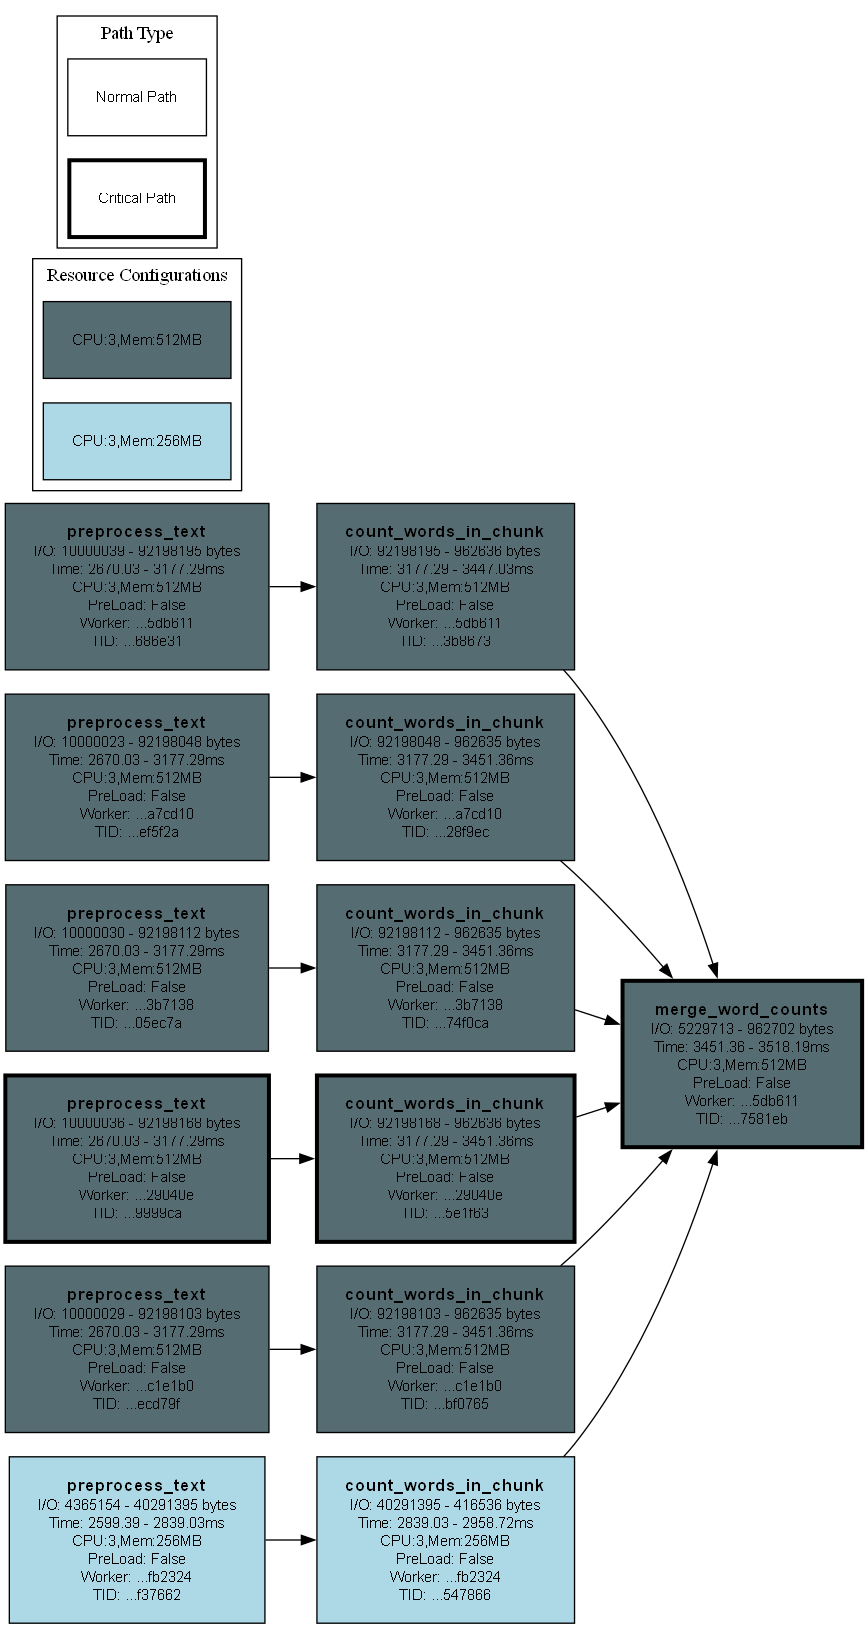
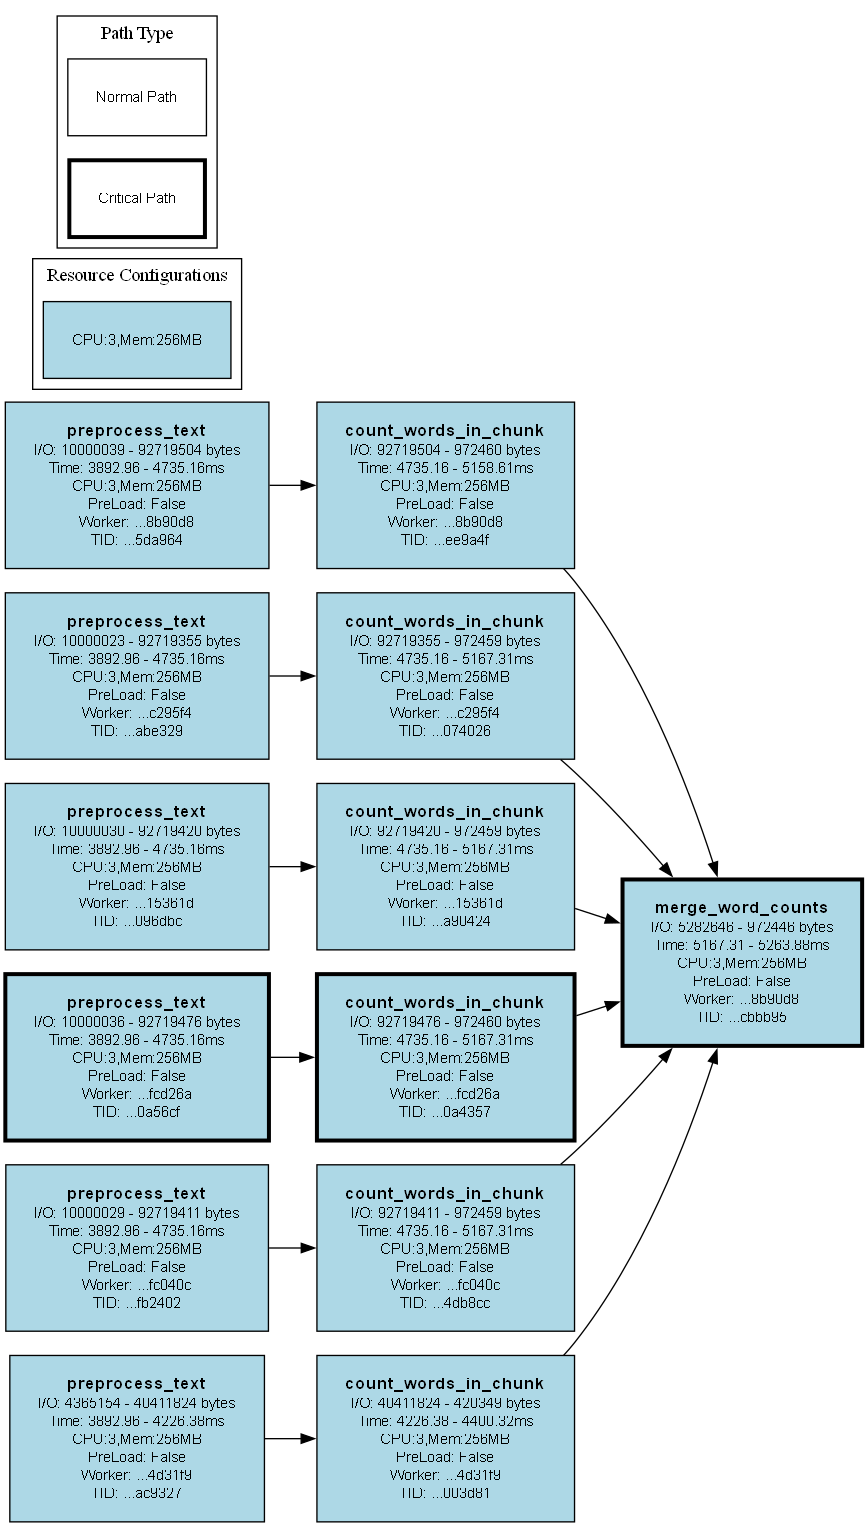
added thoughts about the first 2 optimizations (pre-warm and task-dup)

diff --git a/src/planning/predictions/predictions_provider.py b/src/planning/predictions/predictions_provider.py
@@ -139,7 +139,7 @@ class PredictionsProvider:
         function_io_ratios = self.cached_deserialized_io_ratios[function_name] if deserialized else self.cached_serialized_io_ratios[function_name]
         if len(function_io_ratios) == 0: return 0
 
-        selected_ratios, _ = self._select_related_samples(input_size, function_io_ratios)
+        selected_ratios, _ = self._select_related_samples(input_size, function_io_ratios, sla)
         if sla == "median": ratio = np.median(selected_ratios)
         else: ratio = np.percentile(selected_ratios, sla.value)
 
@@ -191,7 +191,7 @@ class PredictionsProvider:
         #     print(f"Sample | Total bytes: {sample[1]} | To predict: {data_size_bytes}")
 
         if len(matching_samples) >= self.MIN_SAMPLES_OF_SAME_RESOURCE_CONFIGURATION:
-            matching_samples, _debug_samples = self._select_related_samples(data_size_bytes, matching_samples)
+            matching_samples, _debug_samples = self._select_related_samples(data_size_bytes, matching_samples, sla)
             if sla == "median":
                 speed_bytes_per_ms = np.median(matching_samples)
             else:
@@ -207,7 +207,7 @@ class PredictionsProvider:
                 (speed * (BASELINE_MEMORY_MB / memory_mb) ** 0.5, total_bytes)
                 for speed, total_bytes, cpus, memory_mb in cached_data
             ]
-            baseline_normalized_samples, _debug_samples = self._select_related_samples(data_size_bytes, baseline_normalized_samples)
+            baseline_normalized_samples, _debug_samples = self._select_related_samples(data_size_bytes, baseline_normalized_samples, sla)
             
             if sla == "median":
                 baseline_speed_bytes_per_ms = np.median(baseline_normalized_samples)
@@ -321,7 +321,7 @@ class PredictionsProvider:
             ]
             
             # Select samples based on input size similarity
-            selected_times, _ = self._select_related_samples(input_size, full_matching_samples)
+            selected_times, _ = self._select_related_samples(input_size, full_matching_samples, sla)
             
             # Calculate prediction using the selected samples
             if sla == "median": 
@@ -343,7 +343,7 @@ class PredictionsProvider:
             ]
             
             # Select samples based on input size similarity
-            baseline_normalized_samples, _ = self._select_related_samples(input_size, samples_w_normalized_time_per_byte)
+            baseline_normalized_samples, _ = self._select_related_samples(input_size, samples_w_normalized_time_per_byte, sla)
             
             if sla == "median":
                 baseline_ms_per_byte = np.median(baseline_normalized_samples) 
@@ -358,7 +358,7 @@ class PredictionsProvider:
         self._cached_prediction_execution_times[prediction_key] = res # type: ignore
         return res # type: ignore
 
-    def _select_related_samples(self, reference_value: int, all_samples: list[tuple[float, int]], max_samples = 100, min_samples = 6) -> tuple[list[float], list[tuple[float, int, float]]]:
+    def _select_related_samples(self, reference_value: int, all_samples: list[tuple[float, int]], sla: SLA, max_samples = 100, min_samples = 6) -> tuple[list[float], list[tuple[float, int, float]]]:
         """
         reference_value: int
         all_samples: [(value, comparable_to_reference)]
@@ -366,7 +366,8 @@ class PredictionsProvider:
         if not all_samples:
             return [], []
         
-        median_of_observed_values = np.median([size for _, size in all_samples])
+        if sla == "median": median_of_observed_values = np.median([size for _, size in all_samples])
+        else: median_of_observed_values = np.percentile([size for _, size in all_samples], sla.value)
         
         # Try increasing thresholds from 5% to 100% in 5% steps
         for threshold_percent in range(5, 101, 5):

diff --git a/_examples/common/config.py b/_examples/common/config.py
@@ -25,20 +25,22 @@ def get_planner_from_sys_argv():
 
     print(f"Using planner type: {planner_type}")
 
+    sla = Percentile(90)
+
     if planner_type == "simple":
         return SimplePlannerAlgorithm.Config(
-            sla="median",
+            sla=sla,
             all_flexible_workers=False,
             worker_resource_configuration=TaskWorkerResourceConfiguration(cpus=3, memory_mb=256),
         )
     elif planner_type == "first":
         return FirstPlannerAlgorithm.Config(
-            sla="median",
+            sla=sla,
             worker_resource_configuration=TaskWorkerResourceConfiguration(cpus=3, memory_mb=256),
         )
     elif planner_type == "second":
         return SecondPlannerAlgorithm.Config(
-            sla="median",
+            sla=sla,
             available_worker_resource_configurations=[
                 TaskWorkerResourceConfiguration(cpus=3, memory_mb=256),
                 TaskWorkerResourceConfiguration(cpus=3, memory_mb=512)

diff --git a/TODO.md b/TODO.md
@@ -1,6 +1,7 @@
 - [+] Usar user SLA para calcular SLA de uma workflow
     + testar com percentis e ver se promessa se cumpre:
         quando selectiona p90, os resultados estão abaixo de 90% das execuções
+        adicionar ao dashboard (para cada metrica da tabela, a verde se a promessa foi cumprida, vermelho se não)
 - [+] Otimizações
     pre-warm
     task-duplication
@@ -8,25 +9,46 @@
 
 - [-] Mais workflows
 
+[THINK:PLANNER_OPTIMIZATIONS]
+- `pre-warm` (an "empty" invocation (special message) to a **target resource config**)
+    when it receives this invocation, the FaaS engine will startup a container, run the "empty invocation" code path (could exit immediatelly), and then leave the environment running for a few more seconds (not controllable by us) in hope of another invocation (would be "warm")
+    possible benefits: faster startup times for some tasks on workers with a resource config for which there are not yet enough worker instances
+    possible issues: to simulate this, I have to set "ALLOW_CONTAINER_REUSAGE=True", but this will make the experiments unfair because some startups will be warm
+- `task-dup`
+    if a worker A is waiting for the data of an upstream task 1 (executing or to be executed on worker 2) to be available, 
+    it can execute that task itself. by executing task 1 locally, worker 2 won’t need to wait for the data to be available 
+    and then download it from external storage. the results produced by worker 2 will be ignored by worker 1. 
+    possible benefits: - makespan ; - data download time.
+    implementation:
+        - what if has N **not-ready** dependencies (how to choose/which to `dup`?)
+        - how to predict how late a dependency is
+            - need to know the REAL startup time of DEPENDENCY tasks of eligible tasks?
+            - to predict, embed the produced plan data in the DAG representation
+                for dependency tasks:
+                    `expected_ready_to_exec_ts` = `REAL_task_startup_time` + `pred_execution_time` + `pred_upload_time` + `pred_download_time` (by eligible task)
+                    `simulated_ready_to_exec_ts` = `NOW_TS` + `pred_download_time` (all deps. of the dep. task) + `pred_execution_time`
+                        (live predictions because my **resource config** may be different)
+                    if `simulated_ready_to_exec_ts` + `TIME_TOLERANCE` < `expected_ready_to_exec_ts`, then **dup**
+        - which tasks are good targets for considering duplication (planning phase should mark the eligible tasks)
+            - fast tasks + small input size (because will need to fetch it again (besides the original assigned worker))
+            - big output size (because would avoid waiting for storage upload)
+        - cancelation signal: so that the assigned worker can avoid **executing** or **uploading** output to storage if not needed (check signal at checkpoint)
+        - on the dashboard, show how many dups happened and where visually
+    drawbacks:
+        - double execution time (task may be executed twice)
+        - double input download (task inputs may be downloaded twice)
+        - double output upload (if not able to send cancelation signal)
+        - signal checks consume storage and add small latency
+        - DAG representation will be bigger because of embedded plan
+- `output-streaming`
+- Create a planner that uses them + make the prediction calculations take it into account
+
+
 [EVALUATION:PREPARE]
 - Implement **WUKONG** planner
     + optimizations
         - Task Clustering (fan-ins + fan-outs)
         - Delayed I/O
-
----
-
-[THINK:PLANNER_OPTIMIZATIONS]
-- `pre-warm` (Just make an "empty" invocation (special message that the `Worker Handler` must be ready for?) to a container with a given **resource config**)
-    Possible benefits: faster startup times for some tasks on "new" workers
-        can't measure it at the planner level since the predictions aren't considering worker startup times (warm/cold)
-- `task-dup`
-    If a Worker A is waiting for the data of an upstream Task 1 (executing or to be executed on Worker 2) to be available, 
-    it can execute that task itself. By executing Task 1 locally, Worker 2 won’t need to wait for the data to be available 
-    and then download it from external storage. The results produced by Worker 2 will be ignored by Worker 1. 
-    Possible benefits: - makespan ; - data download time.
-- `output-streaming`
-- Create a planner that uses them + make the prediction calculations take it into account
 
 ---
 
